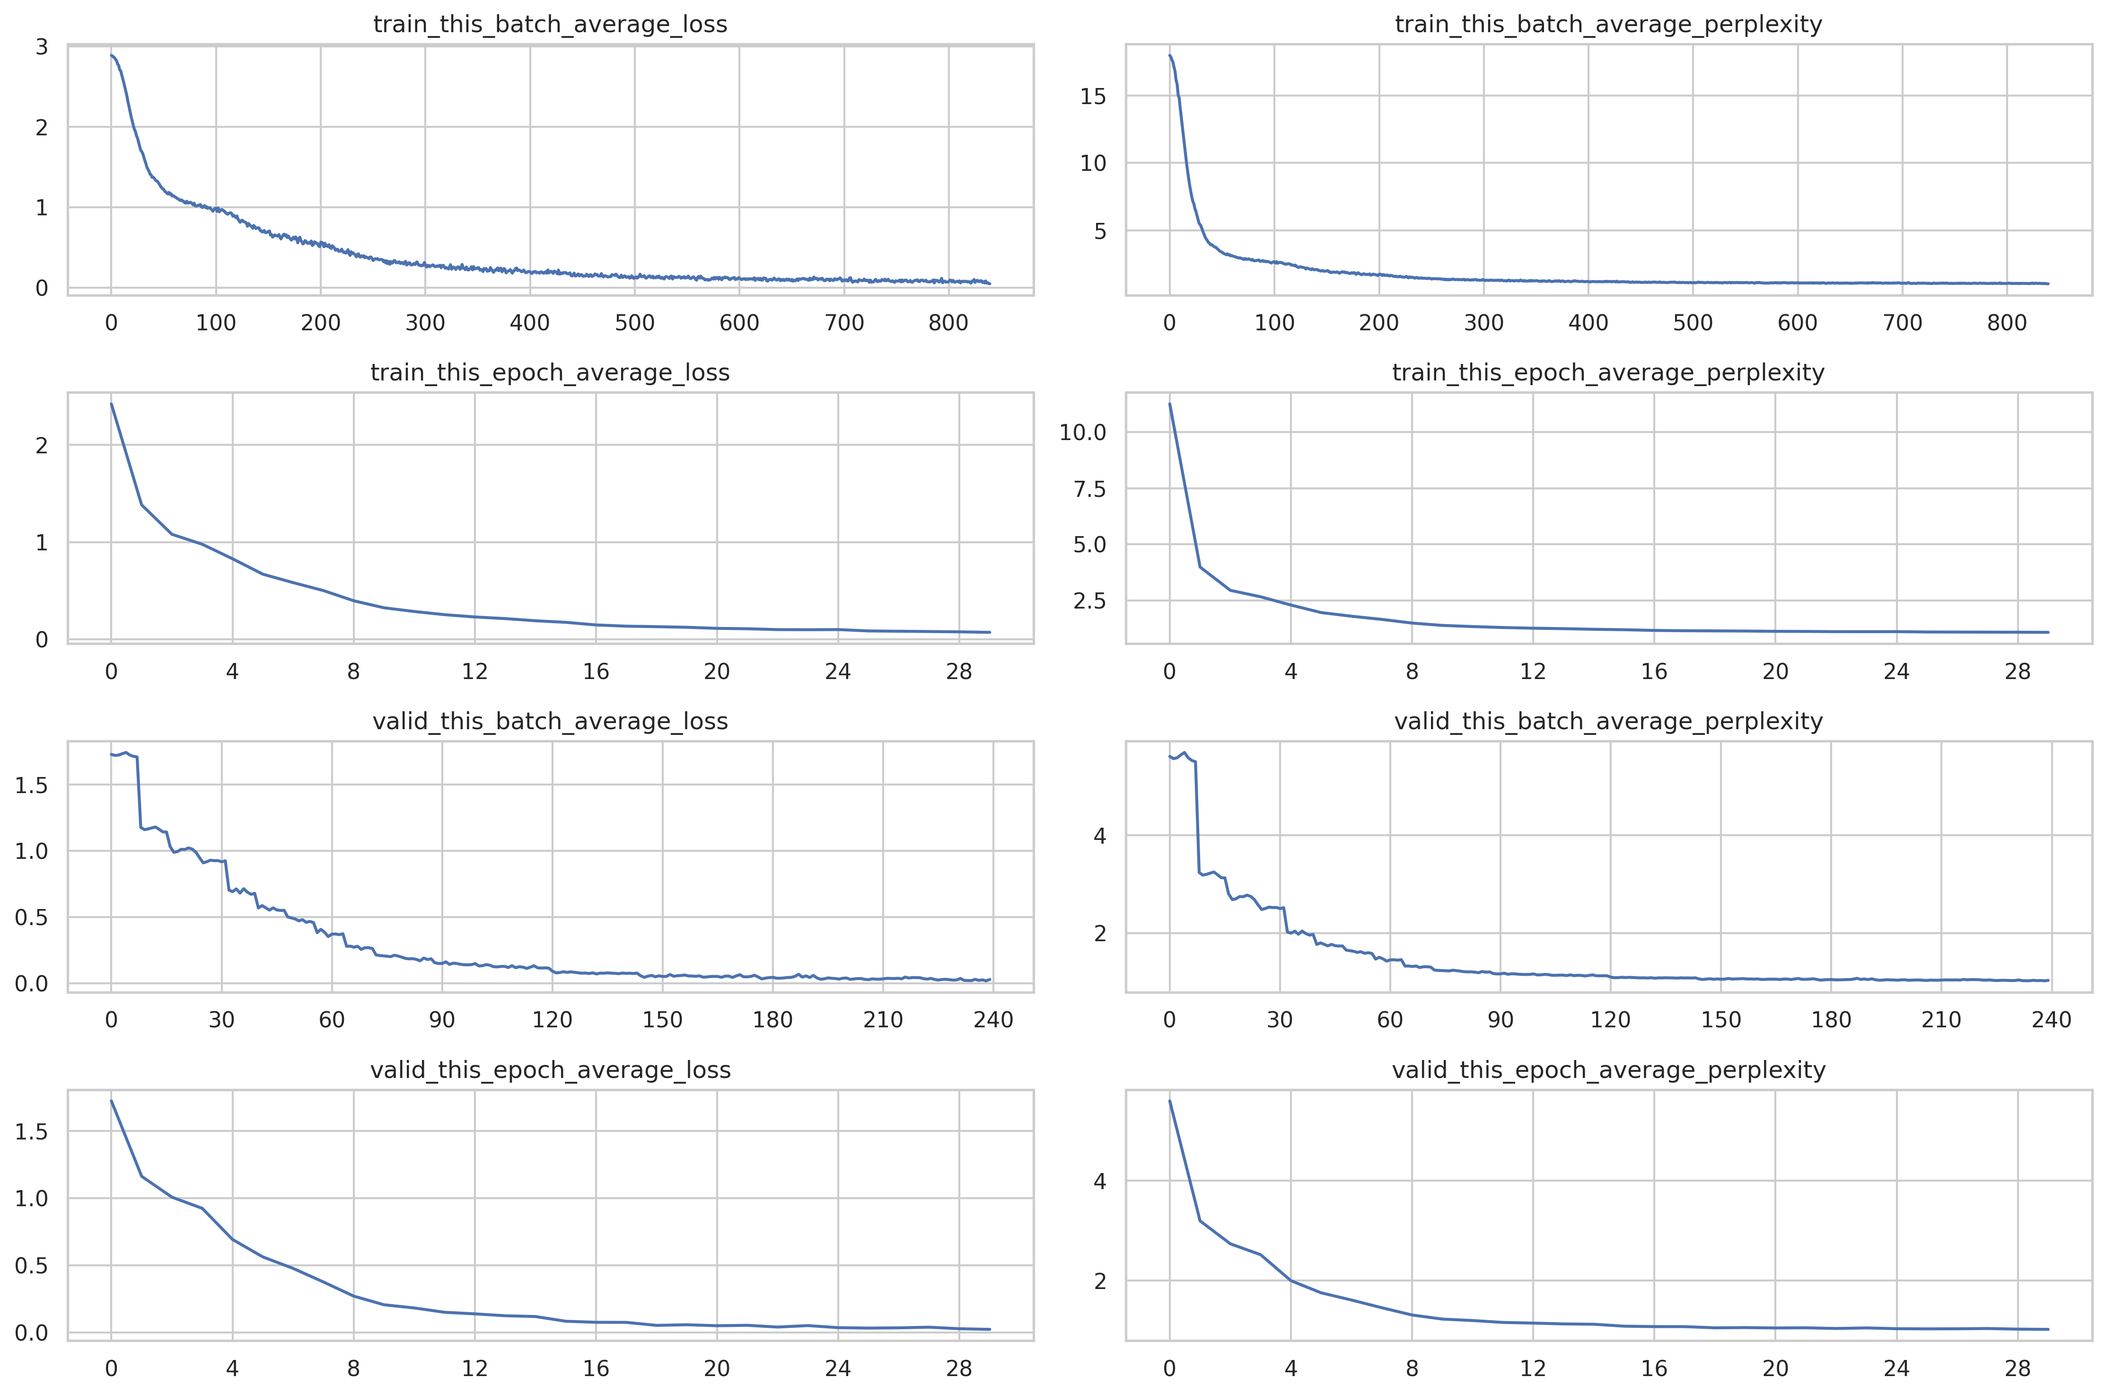
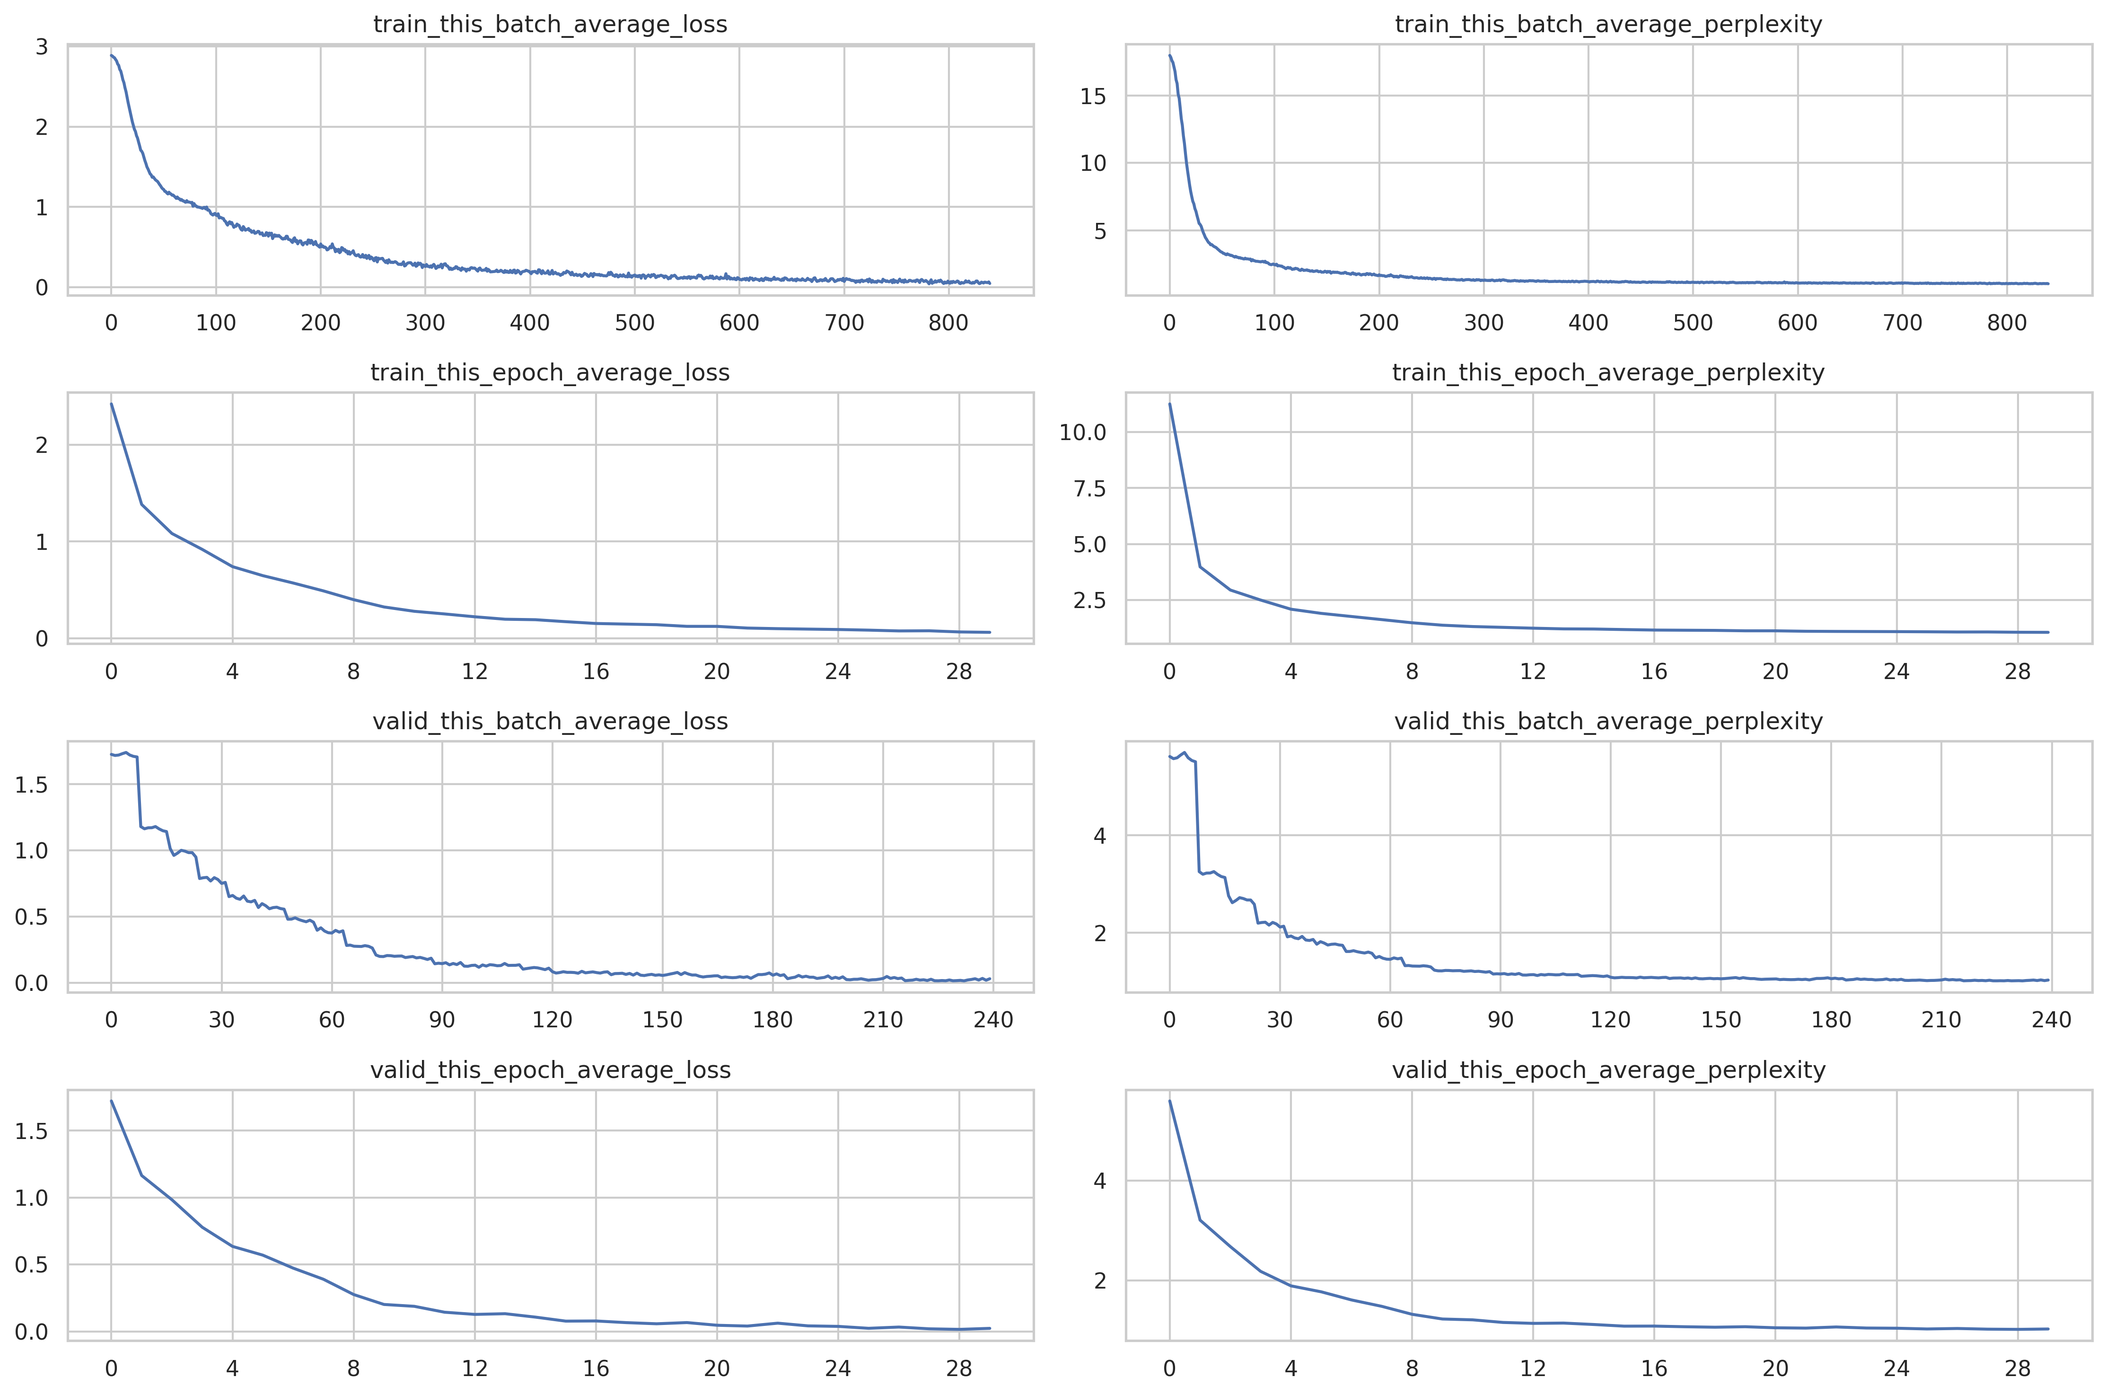
omnivault/transformer: update README.md with adder experiments #58.

diff --git a/omnivault/transformer/README.md b/omnivault/transformer/README.md
@@ -481,6 +481,10 @@ is almost negligible.
 
 **_Do not ask me to support Apple Silicon MPS, thank you._**
 
+Note if you want to apply custom weight decay to different param groups, you
+should necessarily set `weight_decay` to a non-zero value. Otherwise, it is as
+good as not applying custom weight decay to diff param groups.
+
 #### Run 1. CPU Bound 3 Epochs (Debug)
 
 ```bash
@@ -640,40 +644,80 @@ python omnivault/transformer/projects/adder/main.py \
     trainer.device='cuda'
 ```
 
-![history-cpu-30-epochs](./projects/adder/assets/history_gpu_amp_30_epochs.png)
+![history-gpu-amp-30-epochs](./projects/adder/assets/history_gpu_amp_30_epochs.png)
 
 | Epoch | Train Avg Loss      | Train Avg Perplexity | Valid Avg Loss       | Valid Avg Perplexity |
 | ----- | ------------------- | -------------------- | -------------------- | -------------------- |
-| 1     | 2.420887033053807   | 11.255838394165039   | 1.7224298896789552   | 5.598114490509033    |
-| 2     | 1.382730863571167   | 3.9857711791992188   | 1.162042067527771    | 3.196453809738159    |
-| 3     | 1.080898292677743   | 2.9473259449005127   | 1.0070842652320862   | 2.73760724067688     |
-| 4     | 0.9785767320224217  | 2.6606667041778564   | 0.9240238981246949   | 2.5194079875946045   |
-| 5     | 0.8295312314714705  | 2.2922439575195312   | 0.6926205568313598   | 1.998947024345398    |
-| 6     | 0.6710659129960196  | 1.9563214778900146   | 0.5627854623794556   | 1.7555557489395142   |
-| 7     | 0.5843813615526472  | 1.793880820274353    | 0.47745774388313295  | 1.611971139907837    |
-| 8     | 0.502564266034535   | 1.6529544591903687   | 0.37658693075180055  | 1.457302212715149    |
-| 9     | 0.3979068990434919  | 1.4887053966522217   | 0.2713440442085266   | 1.3117262125015259   |
-| 10    | 0.32561164702687945 | 1.3848774433135986   | 0.2069695371389389   | 1.2299450635910034   |
-| 11    | 0.28747650814056397 | 1.333059310913086    | 0.18322225725650787  | 1.201081395149231    |
-| 12    | 0.25478792377880644 | 1.290187954902649    | 0.15108466696739198  | 1.1630951166152954   |
-| 13    | 0.23126019149167198 | 1.2601871490478516   | 0.13933866548538207  | 1.1495133638381958   |
-| 14    | 0.21447246055943625 | 1.2392079830169678   | 0.1252987619638443   | 1.1334871053695679   |
-| 15    | 0.19230408913748606 | 1.2120389938354492   | 0.11941104763746262  | 1.1268329620361328   |
-| 16    | 0.1761221342257091  | 1.192583680152893    | 0.08442495411634446  | 1.0880911350250244   |
-| 17    | 0.14925001897130694 | 1.1609631776809692   | 0.0765499769449234   | 1.0795561075210571   |
-| 18    | 0.13658928255523953 | 1.1463571786880493   | 0.07595605623722076  | 1.0789151191711426   |
-| 19    | 0.13139716700145176 | 1.14042067527771     | 0.05362189581990242  | 1.0550856590270996   |
-| 20    | 0.12509043884277343 | 1.1332509517669678   | 0.058306344807147976 | 1.0600396394729614   |
-| 21    | 0.11421211144753865 | 1.1209899187088013   | 0.051042843461036685 | 1.052367925643921    |
-| 22    | 0.11002175408601761 | 1.1163023710250854   | 0.05413959649205208  | 1.0556319952011108   |
-| 23    | 0.10133451878173011 | 1.1066467761993408   | 0.0411556151509285   | 1.042014241218567    |
-| 24    | 0.10018374175684792 | 1.1053739786148071   | 0.052105383694171906 | 1.053486704826355    |
-| 25    | 0.10159334559100015 | 1.1069332361221313   | 0.03665199390053749  | 1.0373319387435913   |
-| 26    | 0.0877149731857436  | 1.091676950454712    | 0.03356390315294266  | 1.0341335535049438   |
-| 27    | 0.08452736897127969 | 1.0882025957107544   | 0.03531740158796311  | 1.0359485149383545   |
-| 28    | 0.08164276150294712 | 1.0850681066513062   | 0.04029492244124413  | 1.041117787361145    |
-| 29    | 0.0783526828118733  | 1.081503987312317    | 0.028568922132253646 | 1.0289809703826904   |
-| 30    | 0.07325152178747313 | 1.0760011672973633   | 0.024026787236332895 | 1.024317741394043    |
+| 1     | 2.4205463861737933  | 11.252004623413086   | 1.7220775003433229   | 5.596142292022705    |
+| 2     | 1.3822783376148768  | 3.9839680194854736   | 1.1654533338546753   | 3.207376480102539    |
+| 3     | 1.0814607895442419  | 2.948984384536743    | 0.9842177104949951   | 2.675717830657959    |
+| 4     | 0.9172215381349836  | 2.5023281574249268   | 0.7790358891487121   | 2.1793699264526367   |
+| 5     | 0.7389345506940569  | 2.0937037467956543   | 0.6358415827751159   | 1.8886109590530396   |
+| 6     | 0.6459926735333034  | 1.9078800678253174   | 0.5705439281463623   | 1.7692291736602783   |
+| 7     | 0.5700406039101736  | 1.7683387994766235   | 0.4737829902172089   | 1.6060583591461182   |
+| 8     | 0.488430374281747   | 1.6297560930252075   | 0.39063337588310243  | 1.4779165983200073   |
+| 9     | 0.3975865887914385  | 1.488228678703308    | 0.2763254823684692   | 1.3182768821716309   |
+| 10    | 0.3222395454474858  | 1.3802154064178467   | 0.2022288761138916   | 1.2241281270980835   |
+| 11    | 0.27756402710505895 | 1.3199106454849243   | 0.18840807104110718  | 1.207326054573059    |
+| 12    | 0.2501879845006125  | 1.2842668294906616   | 0.14431464183330536  | 1.1552475690841675   |
+| 13    | 0.22080045122759684 | 1.2470746040344238   | 0.1279940801858902   | 1.13654625415802     |
+| 14    | 0.19562238442897797 | 1.2160676717758179   | 0.1331817568540573   | 1.1424576044082642   |
+| 15    | 0.19062137067317964 | 1.2100012302398682   | 0.10771303254365922  | 1.1137280464172363   |
+| 16    | 0.170298394543784   | 1.185658574104309    | 0.0777923778295517   | 1.0808981657028198   |
+| 17    | 0.15150105144296375 | 1.1635794639587402   | 0.07896659177541733  | 1.0821682214736938   |
+| 18    | 0.14518806508609228 | 1.1562570333480835   | 0.06658702969551086  | 1.0688539743423462   |
+| 19    | 0.13887893537964138 | 1.1489850282669067   | 0.057920669734478    | 1.0596309900283813   |
+| 20    | 0.12203447794914246 | 1.1297930479049683   | 0.06693465009331703  | 1.069225549697876    |
+| 21    | 0.12170132402011326 | 1.1294167041778564   | 0.046890605032444    | 1.0480073690414429   |
+| 22    | 0.10425075640848705 | 1.1098787784576416   | 0.04094955199956894  | 1.041799545288086    |
+| 23    | 0.09799357587099075 | 1.10295569896698     | 0.062494068026542664 | 1.064488172531128    |
+| 24    | 0.09356430084364754 | 1.0980812311172485   | 0.04235508406162262  | 1.0432648658752441   |
+| 25    | 0.08931139294590269 | 1.0934211015701294   | 0.038514321237802504 | 1.0392656326293945   |
+| 26    | 0.08283097755057471 | 1.0863581895828247   | 0.024198424577713012 | 1.0244935750961304   |
+| 27    | 0.07462547768013818 | 1.0774805545806885   | 0.03351028007268906  | 1.0340781211853027   |
+| 28    | 0.07607423887934003 | 1.079042673110962    | 0.020321845144033433 | 1.0205297470092773   |
+| 29    | 0.06420282458407538 | 1.066308617591858    | 0.016270793125033378 | 1.0164039134979248   |
+| 30    | 0.06009533877457891 | 1.0619378089904785   | 0.02372451899945736  | 1.0240081548690796   |
+
+Logs for the last epoch:
+
+```text
+                      INFO     ====================================================== Starting Train Epoch: 30/30 ======================================================                                                                                       callbacks.py:68
+[2024-02-01 09:09:31] INFO     Total Samples:                   7000                                                                                                                                                                                          callbacks.py:109
+                      INFO     Total Batches:                   28                                                                                                                                                                                            callbacks.py:110
+                      INFO     Average Epoch Train Loss:        0.06010                                                                                                                                                                                       callbacks.py:111
+                      INFO     Average Epoch Train Perplexity:  1.06194                                                                                                                                                                                       callbacks.py:112
+                      INFO                                                                                                                                                                                                                                    callbacks.py:113
+
+                      INFO     ====================================================== Starting Valid Epoch: 30/30 ======================================================                                                                                       callbacks.py:68
+                      INFO     Total Samples:                   2000                                                                                                                                                                                          callbacks.py:109
+                      INFO     Total Batches:                   8                                                                                                                                                                                             callbacks.py:110
+                      INFO     Average Epoch Valid Loss:        0.02372                                                                                                                                                                                       callbacks.py:111
+                      INFO     Average Epoch Valid Perplexity:  1.02401                                                                                                                                                                                       callbacks.py:112
+                      INFO                                                                                                                                                                                                                                    callbacks.py:113
+
+[2024-02-01 09:09:32] INFO     Correct/Total Samples:           981/1000                                                                                                                                                                                           main.py:153
+                      INFO     Eval Accuracy:                   0.981                                                                                                                                                                                              main.py:154
+                      INFO
+```
+
+Some examples of correct vs incorrect equations:
+
+| Epoch | Batch Index | Sample Index | Correct Equation | Generated Equation | Correct |
+| ----- | ----------- | ------------ | ---------------- | ------------------ | ------- |
+| 30    | 1           | 0            | 13+48=061        | 13+48=061          | True    |
+| 30    | 1           | 1            | 16+55=071        | 16+55=071          | True    |
+| 30    | 1           | 2            | 79+34=113        | 79+34=113          | True    |
+| 30    | 1           | 3            | 35+44=079        | 35+44=079          | True    |
+| 30    | 1           | 4            | 16+50=066        | 16+50=066          | True    |
+| 30    | 1           | 5            | 28+47=075        | 28+47=075          | True    |
+| 30    | 1           | 6            | 00+74=074        | 00+74=074          | True    |
+| 30    | 1           | 7            | 15+20=035        | 15+20=035          | True    |
+| 30    | 1           | 8            | 72+60=132        | 72+60=132          | True    |
+| 30    | 1           | 9            | 63+68=131        | 63+68=131          | True    |
+| 30    | 1           | 28           | 64+35=099        | 64+35=109          | False   |
+| 30    | 1           | 55           | 92+98=190        | 92+98=180          | False   |
+| 30    | 1           | 90           | 66+83=149        | 66+83=159          | False   |
 
 ### Run 6: GPU Bound 30 Epochs with Automatic Mixed Precision, Gradient Scaler and Gradient Accumulation
 
@@ -682,8 +726,8 @@ python omnivault/transformer/projects/adder/main.py \
     omnivault/transformer/projects/adder/config.yaml \
     data.train_loader.batch_size=256 \
     data.valid_loader.batch_size=256 \
-    optimizer.lr=0.8 \
-    trainer.gradient_accumulation_steps=4 \
+    optimizer.lr=0.4 \
+    trainer.gradient_accumulation_steps=2 \
     trainer.max_epochs=30 \
     trainer.use_amp=True \
     trainer.autocast_config.enabled=True \
@@ -692,10 +736,40 @@ python omnivault/transformer/projects/adder/main.py \
     trainer.device='cuda'
 ```
 
-```bash
-# if weight decay is 0, then it is as good as not applying custom weight decay to diff param groups:
-python omnivault/transformer/projects/adder/main.py omnivault/transformer/projects/adder/config.yaml data.train_loader.batch_size=256 data.valid_loader.batch_size=256 trainer.apply_weight_decay_to_different_param_groups=True optimizer.weight_decay=1e-2
-```
+![history-gpu-amp-grad-accum-30-epochs](./projects/adder/assets/history_gpu_amp_grad_accum_30_epochs.png)
+
+| Epoch | Train Avg Loss      | Train Avg Perplexity | Valid Avg Loss       | Valid Avg Perplexity |
+| ----- | ------------------- | -------------------- | -------------------- | -------------------- |
+| 1     | 2.4318635952813286  | 11.380069732666016   | 1.7653614196777343   | 5.843684196472168    |
+| 2     | 1.4408967218399047  | 4.224482536315918    | 1.193289556503296    | 3.2979118824005127   |
+| 3     | 1.1387266654968262  | 3.1227896213531494   | 1.0484863605499268   | 2.8533289432525635   |
+| 4     | 1.029097037587847   | 2.7985377311706543   | 0.9990581040382385   | 2.7157227993011475   |
+| 5     | 0.9682547931671143  | 2.6333446502685547   | 0.8754204921722412   | 2.3998842239379883   |
+| 6     | 0.8344538113049098  | 2.303555488586426    | 0.7312048926353455   | 2.077582359313965    |
+| 7     | 0.7015626596042088  | 2.016901969909668    | 0.6150715584754944   | 1.8497889041900635   |
+| 8     | 0.5969008883748735  | 1.8164806365966797   | 0.49807923364639284  | 1.6455575227737427   |
+| 9     | 0.5126662705285209  | 1.6697372198104858   | 0.376993186712265    | 1.4578943252563477   |
+| 10    | 0.41251833319664    | 1.5106172561645508   | 0.34465864443778993  | 1.4115079641342163   |
+| 11    | 0.34393849887166705 | 1.410491943359375    | 0.2340719712972641   | 1.2637354135513306   |
+| 12    | 0.2928104042666299  | 1.3401886224746704   | 0.21054481720924378  | 1.2343504428863525   |
+| 13    | 0.25660878079278127 | 1.292539358139038    | 0.16008147013187407  | 1.173606514930725    |
+| 14    | 0.23267976432187218 | 1.2619773149490356   | 0.15284175133705138  | 1.1651406288146973   |
+| 15    | 0.21082194033690863 | 1.2346924543380737   | 0.13727097880840303  | 1.1471389532089233   |
+| 16    | 0.20176170025553022 | 1.223556399345398    | 0.11552185052633286  | 1.122459053993225    |
+| 17    | 0.17442297523362296 | 1.1905590295791626   | 0.09641009265184403  | 1.101210594177246    |
+| 18    | 0.15738939934117455 | 1.170451283454895    | 0.08620927721261978  | 1.0900344848632812   |
+| 19    | 0.15821981023039136 | 1.1714236736297607   | 0.10135115367174148  | 1.1066651344299316   |
+| 20    | 0.14823428785800935 | 1.1597845554351807   | 0.07494744938611984  | 1.0778274536132812   |
+| 21    | 0.13223713103362492 | 1.1413789987564087   | 0.06551820451021194  | 1.0677121877670288   |
+| 22    | 0.12099365475348065 | 1.128617763519287    | 0.05293664732575416  | 1.0543628931045532   |
+| 23    | 0.10733613501276289 | 1.1133084297180176   | 0.05442997631430626  | 1.055938482284546    |
+| 24    | 0.10904766264132092 | 1.115215539932251    | 0.05351081794500351  | 1.0549683570861816   |
+| 25    | 0.1035381441116333  | 1.1090880632400513   | 0.050284194588661194 | 1.051569938659668    |
+| 26    | 0.0952657037121909  | 1.0999510288238525   | 0.03763015529513359  | 1.0383471250534058   |
+| 27    | 0.08493163916894368 | 1.0886425971984863   | 0.03343319427967072  | 1.0339983701705933   |
+| 28    | 0.07756305646896362 | 1.0806503295898438   | 0.030568335026502608 | 1.0310403108596802   |
+| 29    | 0.07016685660396303 | 1.0726871490478516   | 0.026176551282405855 | 1.026522159576416    |
+| 30    | 0.06965843281575612 | 1.0721418857574463   | 0.024125553995370867 | 1.0244189500808716   |
 
 #### Generalization
 
